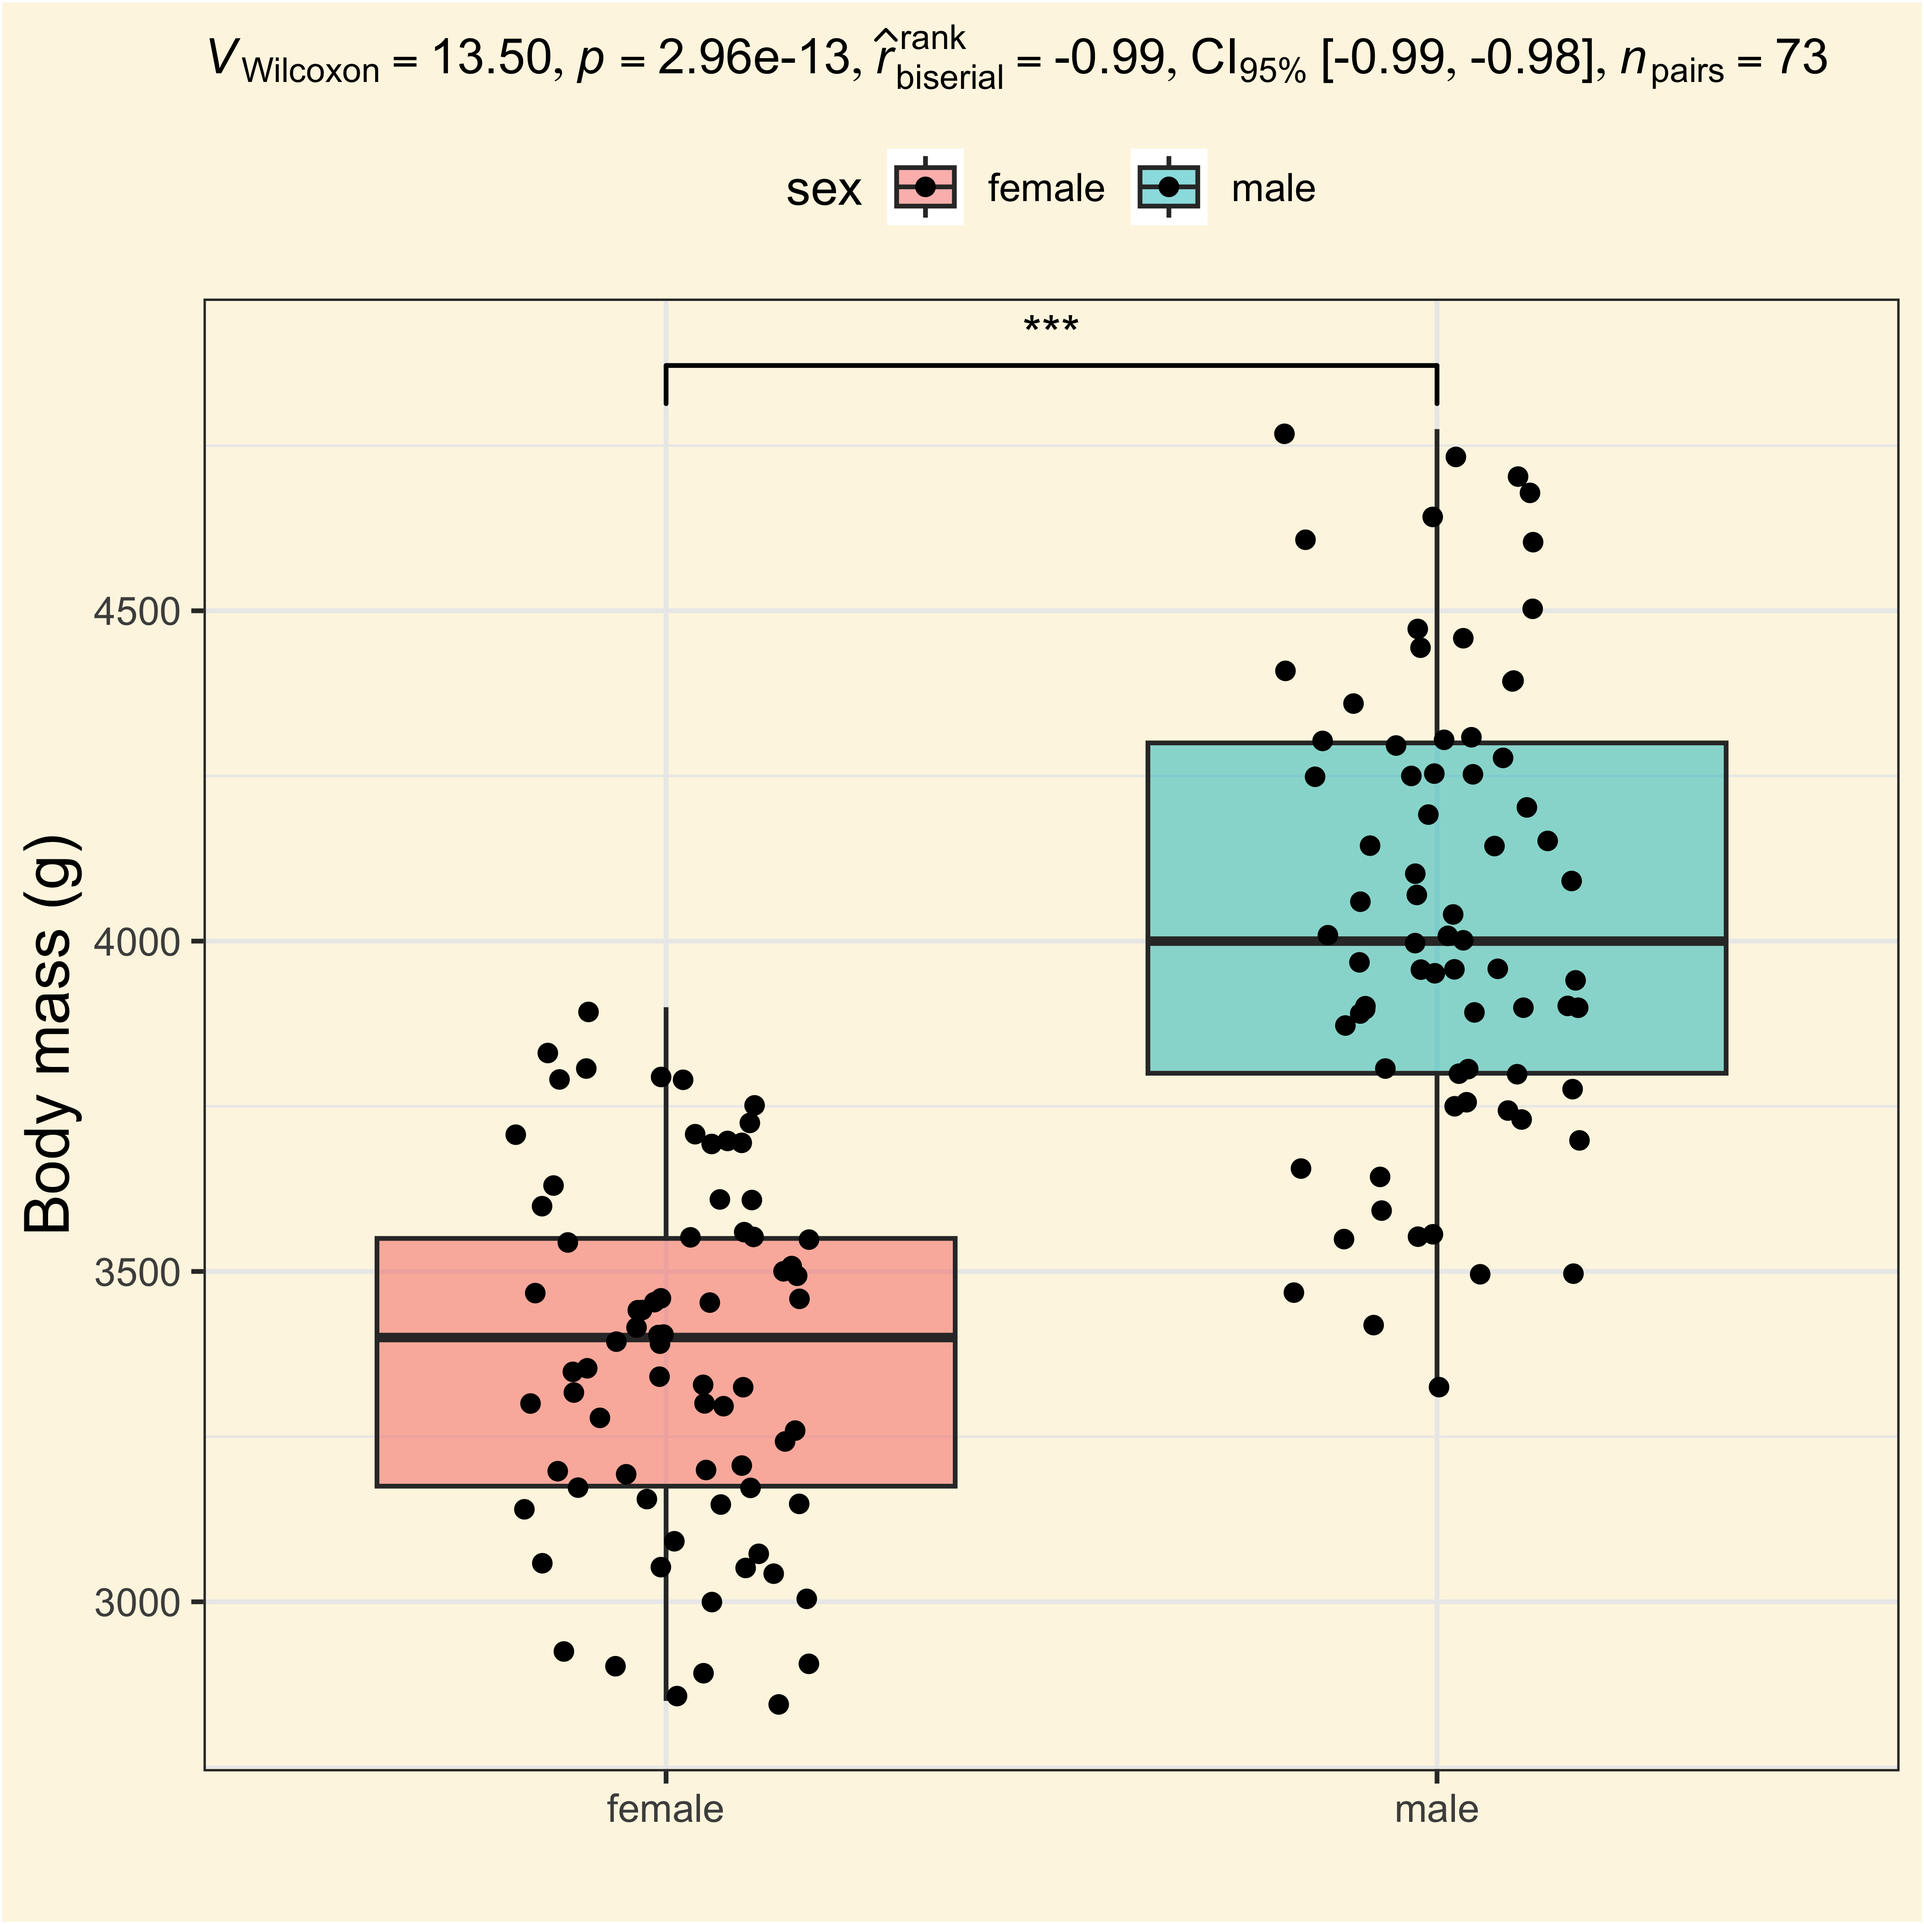
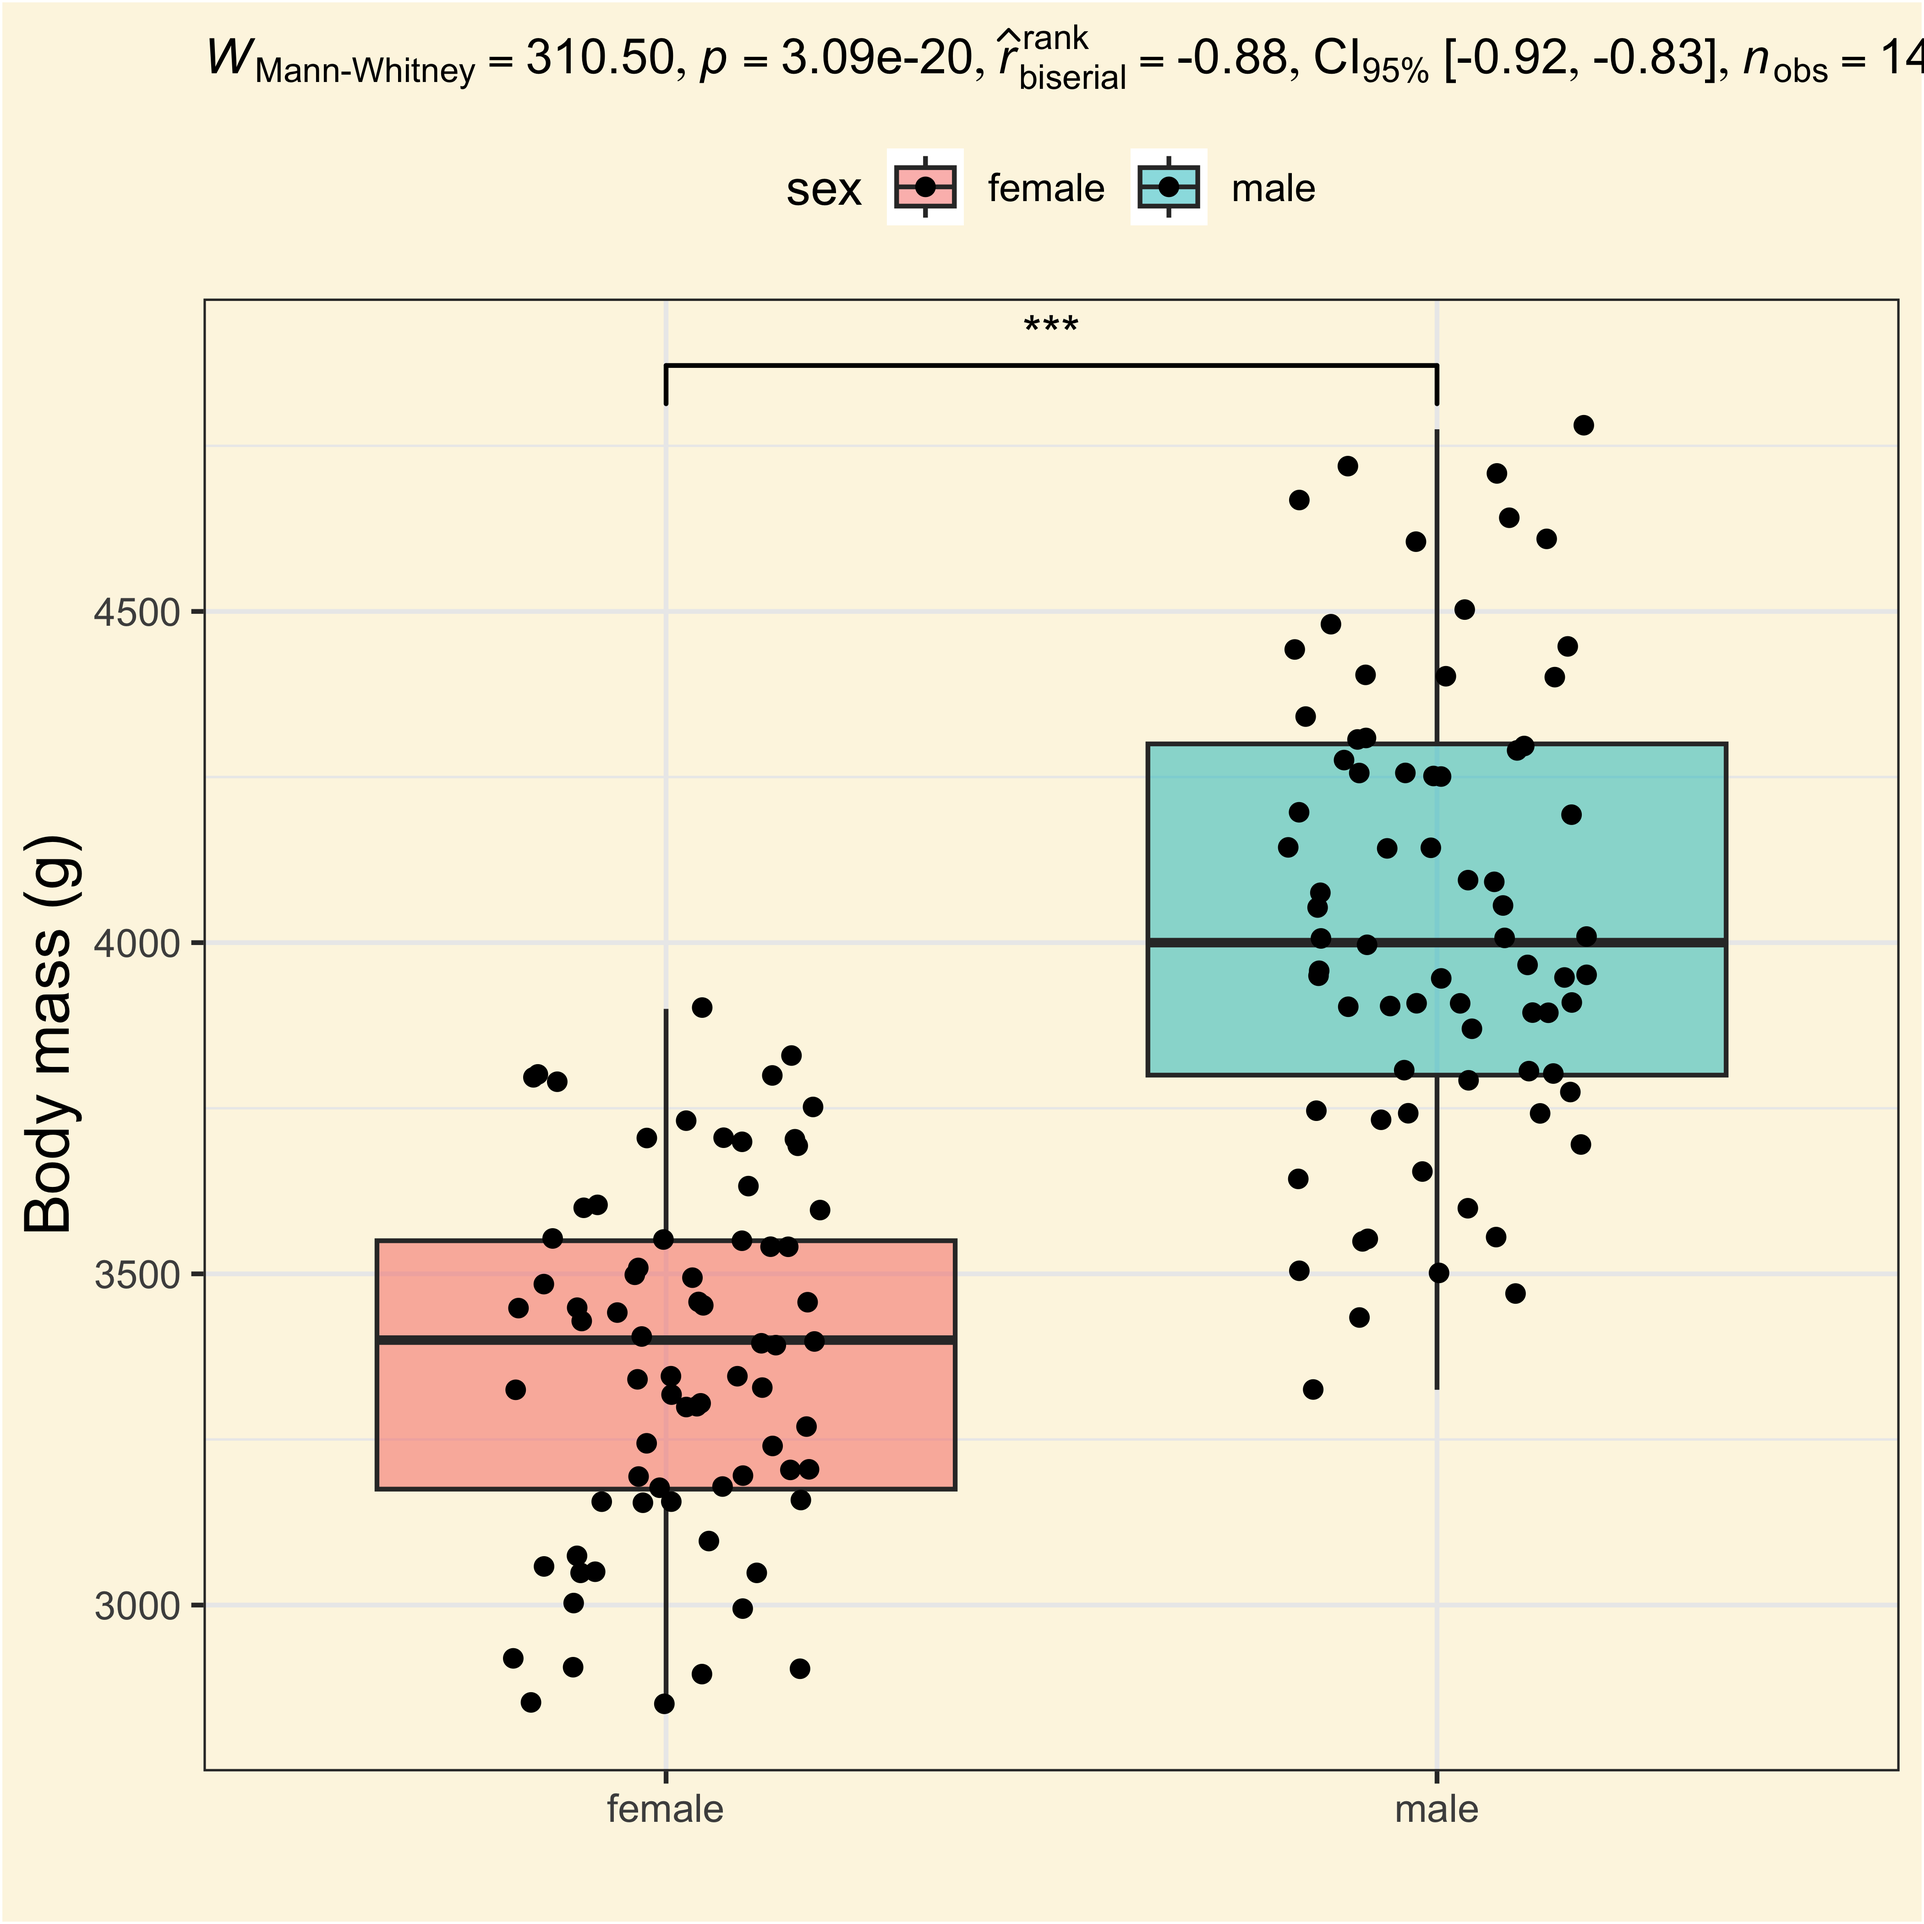
Update paired parameter in two_sample_test function

diff --git a/05-stats-tests/05-stats-tests.html b/05-stats-tests/05-stats-tests.html
@@ -638,7 +638,7 @@ alternative hypothesis: true location shift is not equal to 0</code></pre>
 <span>  x <span class="op">=</span> <span class="va">sex</span>, </span>
 <span>  y <span class="op">=</span> <span class="va">body_mass_g</span>,</span>
 <span>  type <span class="op">=</span> <span class="st">"np"</span>,</span>
-<span>  paired <span class="op">=</span> <span class="cn">TRUE</span></span>
+<span>  paired <span class="op">=</span> <span class="cn">FALSE</span></span>
 <span>  <span class="op">)</span></span>
 <span></span>
 <span><span class="va">adelie_wilcox_table</span></span></code><button title="Copy to Clipboard" class="code-copy-button"><i class="bi"></i></button></pre></div>
@@ -647,7 +647,7 @@ alternative hypothesis: true location shift is not equal to 0</code></pre>
 <div class="cell-output-display">
 <div data-pagedtable="false">
   <script data-pagedtable-source="" type="application/json">
-{"columns":[{"label":["parameter1"],"name":[1],"type":["chr"],"align":["left"]},{"label":["parameter2"],"name":[2],"type":["chr"],"align":["left"]},{"label":["statistic"],"name":[3],"type":["dbl"],"align":["right"]},{"label":["p.value"],"name":[4],"type":["dbl"],"align":["right"]},{"label":["method"],"name":[5],"type":["chr"],"align":["left"]},{"label":["alternative"],"name":[6],"type":["chr"],"align":["left"]},{"label":["effectsize"],"name":[7],"type":["chr"],"align":["left"]},{"label":["estimate"],"name":[8],"type":["dbl"],"align":["right"]},{"label":["conf.level"],"name":[9],"type":["dbl"],"align":["right"]},{"label":["conf.low"],"name":[10],"type":["dbl"],"align":["right"]},{"label":["conf.high"],"name":[11],"type":["dbl"],"align":["right"]},{"label":["conf.method"],"name":[12],"type":["chr"],"align":["left"]},{"label":["n.obs"],"name":[13],"type":["int"],"align":["right"]},{"label":["expression"],"name":[14],"type":["list"],"align":["right"]}],"data":[{"1":"body_mass_g","2":"sex","3":"13.5","4":"2.96057e-13","5":"Wilcoxon signed rank test","6":"two.sided","7":"r (rank biserial)","8":"-0.989726","9":"0.95","10":"-0.9939276","11":"-0.9826425","12":"normal","13":"73","14":"<language>"}],"options":{"columns":{"min":{},"max":[10]},"rows":{"min":[10],"max":[10]},"pages":{}}}
+{"columns":[{"label":["parameter1"],"name":[1],"type":["chr"],"align":["left"]},{"label":["parameter2"],"name":[2],"type":["chr"],"align":["left"]},{"label":["statistic"],"name":[3],"type":["dbl"],"align":["right"]},{"label":["p.value"],"name":[4],"type":["dbl"],"align":["right"]},{"label":["method"],"name":[5],"type":["chr"],"align":["left"]},{"label":["alternative"],"name":[6],"type":["chr"],"align":["left"]},{"label":["effectsize"],"name":[7],"type":["chr"],"align":["left"]},{"label":["estimate"],"name":[8],"type":["dbl"],"align":["right"]},{"label":["conf.level"],"name":[9],"type":["dbl"],"align":["right"]},{"label":["conf.low"],"name":[10],"type":["dbl"],"align":["right"]},{"label":["conf.high"],"name":[11],"type":["dbl"],"align":["right"]},{"label":["conf.method"],"name":[12],"type":["chr"],"align":["left"]},{"label":["n.obs"],"name":[13],"type":["int"],"align":["right"]},{"label":["expression"],"name":[14],"type":["list"],"align":["right"]}],"data":[{"1":"body_mass_g","2":"sex","3":"310.5","4":"3.091127e-20","5":"Wilcoxon rank sum test","6":"two.sided","7":"r (rank biserial)","8":"-0.8834678","9":"0.95","10":"-0.9184914","11":"-0.8346916","12":"normal","13":"146","14":"<language>"}],"options":{"columns":{"min":{},"max":[10]},"rows":{"min":[10],"max":[10]},"pages":{}}}
   </script>
 </div>
 </div>
